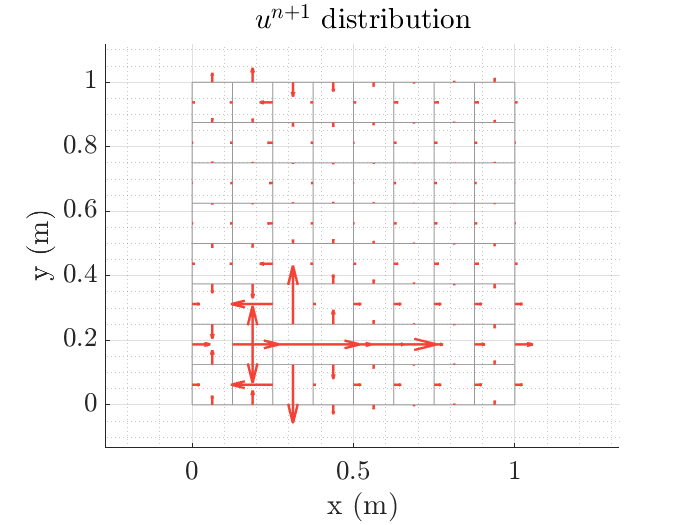
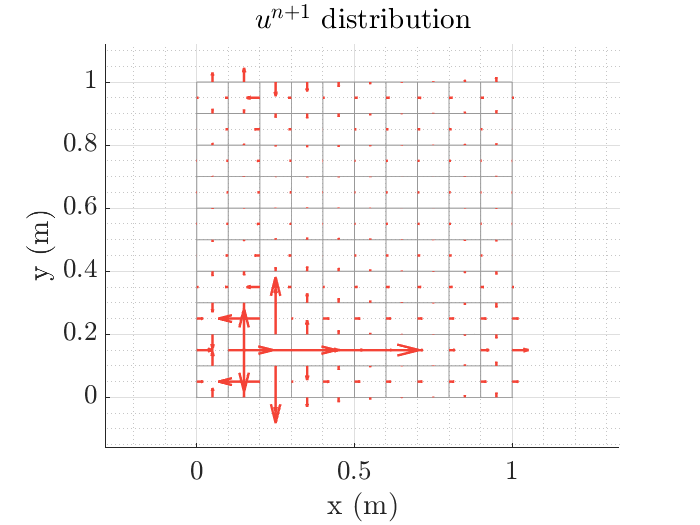
Some figures added

diff --git a/PartB_13.m b/PartB_13.m
@@ -8,7 +8,7 @@ clc; clear; close all;
 
 % Input parameters
 L  = 1; % domain size
-N  = 8;
+N  = 10;
 
 % Velocity fields computation
 up = zeros(N+2,N+2);
